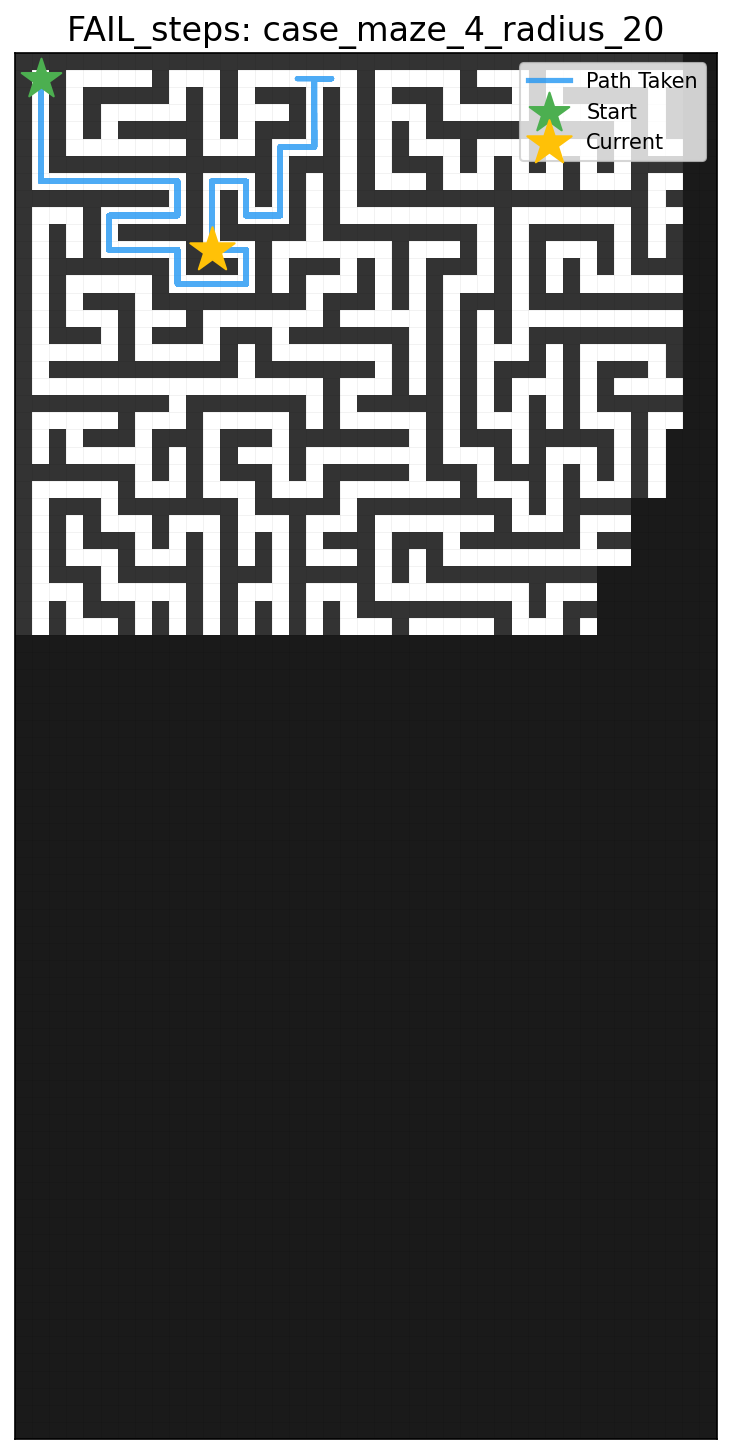
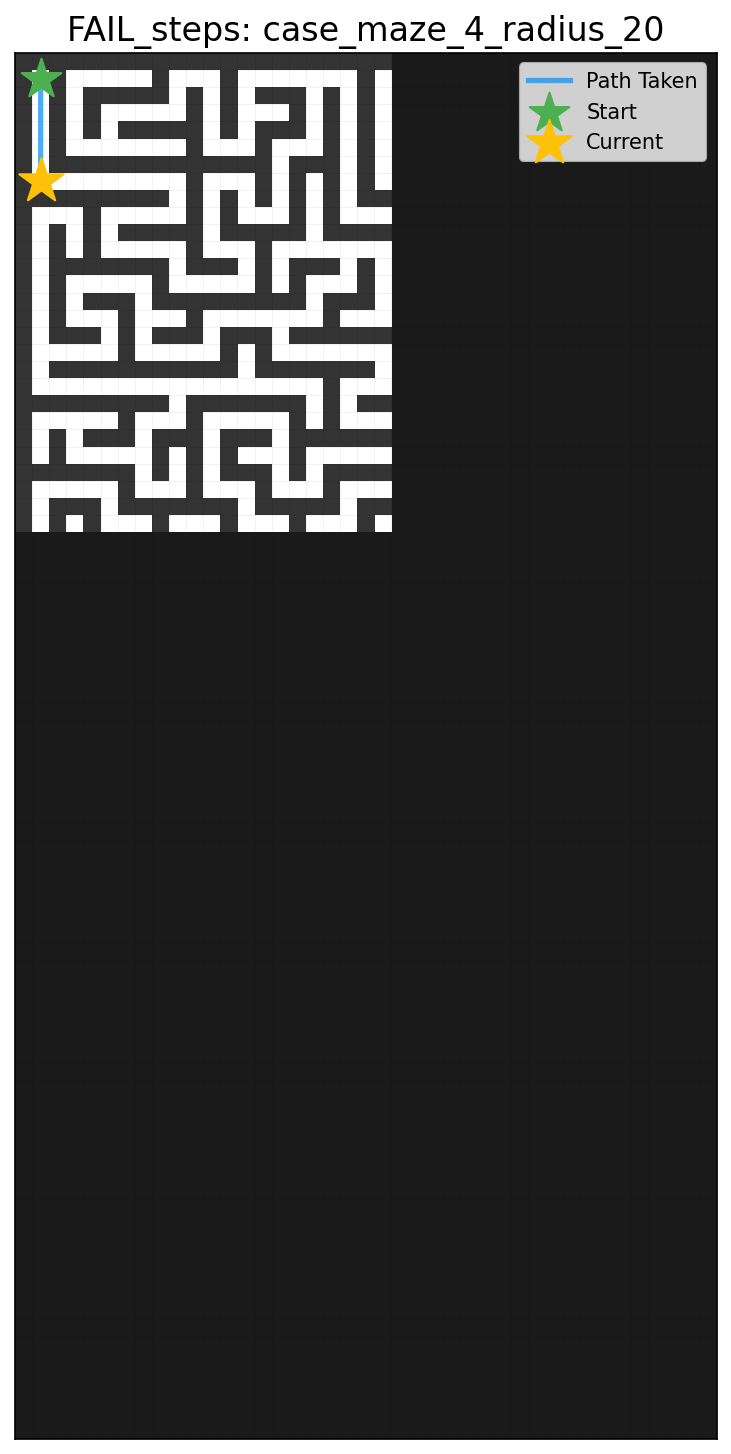
将边界点寻找部分分离出来的bfs算法

Changed region(s): [[0.0, 0.0309, 0.933, 0.4642], [0.1204, 0.0309, 0.4514, 0.2166], [0.0301, 0.0928, 0.0903, 0.1547]]

diff --git a/candidate_planner.py b/candidate_planner.py
@@ -1,21 +1,13 @@
 import numpy as np
 import random
 from collections import deque
-import heapq
 
 class Planner:
     def __init__(self, map_shape: tuple[int, int], view_radius: int):
-        self.known_map = np.full(map_shape, -1, dtype=int)
+        self.known_map = np.full(map_shape, -1, dtype=int)  # -1代表未知区域，0代表空地，1代表障碍物
         self.view_radius = view_radius
         self.path_taken = []
         self.map_shape = map_shape
-        
-        # 存储边界点（frontier points）
-        self.frontier_points = set()
-        # 当前路径
-        self.current_path = deque()
-        # A*算法缓存
-        self.a_star_cache = {}
         
     def update_knowledge(self, current_pos: tuple[int, int], local_view: np.ndarray):
         r = self.view_radius
@@ -25,41 +17,19 @@ class Planner:
         y_start, y_end = max(0, y - r), min(h, y + r + 1)
         x_start, x_end = max(0, x - r), min(w, x + r + 1)
         
-        # 更新已知地图
         self.known_map[y_start:y_end, x_start:x_end] = local_view
-        
-        # 更新边界点
-        self.update_frontier_points(current_pos)
-    
-    def update_frontier_points(self, current_pos: tuple[int, int]):
-        """更新边界点集合（已知与未知的交界）"""
-        r = self.view_radius
+
+    def find_boundary_points(self, current_pos: tuple[int, int]):
+        """寻找边界点，即未知区域的边界"""
+        boundary_points = []
         x, y = current_pos
-        h, w = self.known_map.shape
-        
-        y_start, y_end = max(0, y - r), min(h, y + r + 1)
-        x_start, x_end = max(0, x - r), min(w, x + r + 1)
-        
-        # 清除当前视野内的边界点
-        for py in range(y_start, y_end):
-            for px in range(x_start, x_end):
-                self.frontier_points.discard((px, py))
-        
-        # 添加新的边界点
-        for py in range(y_start, y_end):
-            for px in range(x_start, x_end):
-                # 只处理自由空间单元格
-                if self.known_map[py, px] != 0:
-                    continue
-                
-                # 检查4邻域内是否有未知区域
-                for dx, dy in [(0, 1), (0, -1), (1, 0), (-1, 0)]:
-                    nx, ny = px + dx, py + dy
-                    if 0 <= ny < h and 0 <= nx < w:
-                        if self.known_map[ny, nx] == -1:
-                            self.frontier_points.add((px, py))
-                            break
-    
+        for dx, dy in [(0, 1), (0, -1), (1, 0), (-1, 0)]:
+            nx, ny = x + dx, y + dy
+            if 0 <= ny < self.map_shape[0] and 0 <= nx < self.map_shape[1]:
+                if self.known_map[ny, nx] == -1:  # 发现未知区域
+                    boundary_points.append((nx, ny))
+        return boundary_points
+
     def plan_next_step(self, current_pos: tuple[int, int], all_possible_targets: list[tuple[int, int]]) -> tuple[int, int]:
         if not self.path_taken or self.path_taken[-1] != current_pos:
             self.path_taken.append(current_pos)
@@ -67,150 +37,73 @@ class Planner:
         # 将目标列表转换为集合提高查找效率
         target_set = set(all_possible_targets)
         
-        # 如果当前位置就是目标，返回当前位置
+        # 如果当前位置就是目标，返回当前位置（模拟器会处理到达目标）
         if current_pos in target_set and self.known_map[current_pos[1], current_pos[0]] == 0:
             return current_pos
         
-        # 如果有当前路径且未完成，继续沿着路径移动
-        if self.current_path:
-            next_pos = self.current_path.popleft()
-            # 检查路径是否仍然有效（没有新发现的障碍）
-            if self.is_valid_move(current_pos, next_pos):
-                return next_pos
-            else:
-                # 路径无效，清除并重新规划
-                self.current_path.clear()
+        # 执行BFS进行路径规划
+        queue = deque([current_pos])
+        visited = {current_pos}
+        parent = {current_pos: None}
         
-        # 尝试规划到已知目标点的路径
-        known_targets = [t for t in target_set 
-                         if 0 <= t[1] < self.map_shape[0] and 
-                         0 <= t[0] < self.map_shape[1] and 
-                         self.known_map[t[1], t[0]] == 0]
+        found_target = None
+        found_frontier = None
         
-        if known_targets:
-            # 找到最近的目标点
-            closest_target = min(known_targets, 
-                                 key=lambda t: self.manhattan_distance(current_pos, t))
+        # BFS搜索最近的目标或边界
+        while queue:
+            x, y = queue.popleft()
             
-            # 使用A*规划到目标的路径
-            path = self.a_star(current_pos, closest_target)
-            if path:
-                self.current_path = deque(path)
-                if self.current_path:
-                    return self.current_path.popleft()
-        
-        # 如果没有已知目标，尝试规划到边界点的路径
-        if self.frontier_points:
-            # 找到最近的边界点
-            closest_frontier = min(self.frontier_points, 
-                                  key=lambda p: self.manhattan_distance(current_pos, p))
+            # 检查是否找到目标
+            if (x, y) in target_set and self.known_map[y, x] == 0:
+                found_target = (x, y)
+                break
             
-            # 使用A*规划到边界点的路径
-            path = self.a_star(current_pos, closest_frontier)
-            if path:
-                self.current_path = deque(path)
-                if self.current_path:
-                    return self.current_path.popleft()
+            # 检查是否是边界点（未知区域的边界）
+            if found_frontier is None:
+                boundary_points = self.find_boundary_points((x, y))
+                if boundary_points:
+                    found_frontier = (x, y)
+            
+            # 扩展邻居节点
+            for dx, dy in [(0, 1), (0, -1), (1, 0), (-1, 0)]:
+                nx, ny = x + dx, y + dy
+                next_pos = (nx, ny)
+                
+                # 检查边界和可通行性
+                if (0 <= ny < self.map_shape[0] and 
+                    0 <= nx < self.map_shape[1] and
+                    self.known_map[ny, nx] == 0 and 
+                    next_pos not in visited):
+                    
+                    visited.add(next_pos)
+                    queue.append(next_pos)
+                    parent[next_pos] = (x, y)
+        
+        # 回溯路径找到第一步移动
+        def find_first_step(target):
+            step = target
+            while parent[step] != current_pos:
+                step = parent[step]
+            return step
+        
+        # 优先处理找到的目标
+        if found_target:
+            return find_first_step(found_target)
+        
+        # 其次处理边界点
+        if found_frontier:
+            return find_first_step(found_frontier)
         
         # 最后尝试随机合法移动
-        return self.random_valid_move(current_pos)
-    
-    def a_star(self, start: tuple[int, int], goal: tuple[int, int]) -> list:
-        """A*路径规划算法"""
-        # 检查缓存
-        cache_key = (start, goal)
-        if cache_key in self.a_star_cache:
-            return self.a_star_cache[cache_key][:]
-        
-        if start == goal:
-            return []
-        
-        # 优先队列 (f_score, position)
-        open_set = []
-        heapq.heappush(open_set, (0, start))
-        
-        # 记录路径
-        came_from = {}
-        
-        # 代价函数
-        g_score = {start: 0}
-        f_score = {start: self.manhattan_distance(start, goal)}
-        
-        while open_set:
-            _, current = heapq.heappop(open_set)
-            
-            if current == goal:
-                # 重建路径
-                path = []
-                while current != start:
-                    path.append(current)
-                    current = came_from[current]
-                path.reverse()
-                # 缓存结果
-                self.a_star_cache[cache_key] = path
-                return path
-            
-            # 探索邻居
-            for dx, dy in [(0, 1), (0, -1), (1, 0), (-1, 0)]:
-                neighbor = (current[0] + dx, current[1] + dy)
-                
-                # 检查边界
-                if not (0 <= neighbor[1] < self.map_shape[0] and 
-                        0 <= neighbor[0] < self.map_shape[1]):
-                    continue
-                
-                # 检查是否可通过（自由空间或目标点）
-                if (self.known_map[neighbor[1], neighbor[0]] != 0 and 
-                    neighbor != goal):
-                    continue
-                
-                # 计算新代价
-                tentative_g = g_score[current] + 1
-                
-                # 如果找到更好的路径
-                if neighbor not in g_score or tentative_g < g_score[neighbor]:
-                    came_from[neighbor] = current
-                    g_score[neighbor] = tentative_g
-                    f_score[neighbor] = tentative_g + self.manhattan_distance(neighbor, goal)
-                    
-                    # 添加到开放集
-                    heapq.heappush(open_set, (f_score[neighbor], neighbor))
-        
-        # 无路径
-        self.a_star_cache[cache_key] = []
-        return None
-    
-    def random_valid_move(self, current_pos: tuple[int, int]) -> tuple[int, int]:
-        """随机选择合法移动"""
         motions = [(0, 1), (0, -1), (1, 0), (-1, 0)]
         random.shuffle(motions)
-        
         for dx, dy in motions:
             next_pos = (current_pos[0] + dx, current_pos[1] + dy)
-            if self.is_valid_move(current_pos, next_pos):
+            nx, ny = next_pos
+            if (0 <= ny < self.map_shape[0] and 
+                0 <= nx < self.map_shape[1] and
+                self.known_map[ny, nx] != 1):  # 避免已知障碍
                 return next_pos
         
         # 无合法移动时保持原位
         return current_pos
-    
-    def is_valid_move(self, from_pos: tuple[int, int], to_pos: tuple[int, int]) -> bool:
-        """检查移动是否合法"""
-        x, y = to_pos
-        h, w = self.map_shape
-        
-        # 检查边界
-        if not (0 <= y < h and 0 <= x < w):
-            return False
-        
-        # 检查是否移动到已知障碍物
-        if self.known_map[y, x] == 1:
-            return False
-        
-        # 检查是否为相邻移动
-        dx = abs(from_pos[0] - to_pos[0])
-        dy = abs(from_pos[1] - to_pos[1])
-        return (dx == 1 and dy == 0) or (dx == 0 and dy == 1)
-    
-    def manhattan_distance(self, a: tuple[int, int], b: tuple[int, int]) -> int:
-        """计算曼哈顿距离"""
-        return abs(a[0] - b[0]) + abs(a[1] - b[1])
